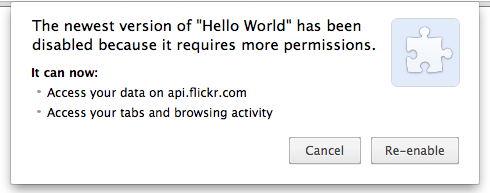
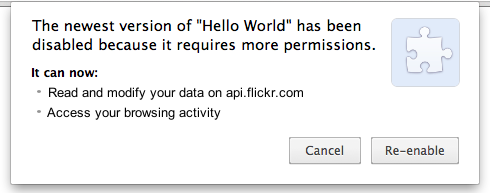
@281363.

Changed region(s): [[0.0918, 0.4352, 0.6429, 0.5285], [0.0918, 0.5596, 0.551, 0.6218]]

diff --git a/chromium/crxdoczh/src/chrome/common/extensions/docs/templates/articles/permission_warnings.html b/chromium/crxdoczh/src/chrome/common/extensions/docs/templates/articles/permission_warnings.html
@@ -113,7 +113,7 @@ brings up the following warning:-->
 
 <img src="{{static}}/images/perms-hw2.png"
   width="490" height="193"
-  alt="Permission warning: 'It can: Read and modify your data on api.flickr.com and flickr.com; Read and modify your browsing history'"
+  alt="Permission warning: 'It can: Read and modify your data on api.flickr.com; Access your browsing activity'"
   />
 
 

diff --git a/chromium/crxdoczh/src/chrome/common/extensions/docs/templates/private/function_details.html b/chromium/crxdoczh/src/chrome/common/extensions/docs/templates/private/function_details.html
@@ -5,6 +5,9 @@
                                api:api/}}
 </div>
 <div class="description">
+  {{?availability}}
+  <span class="availability">{{+availability.partial content:availability/}}</span>
+  {{/availability}}
   {{?description}}
   <p>
     {{{description}}}
